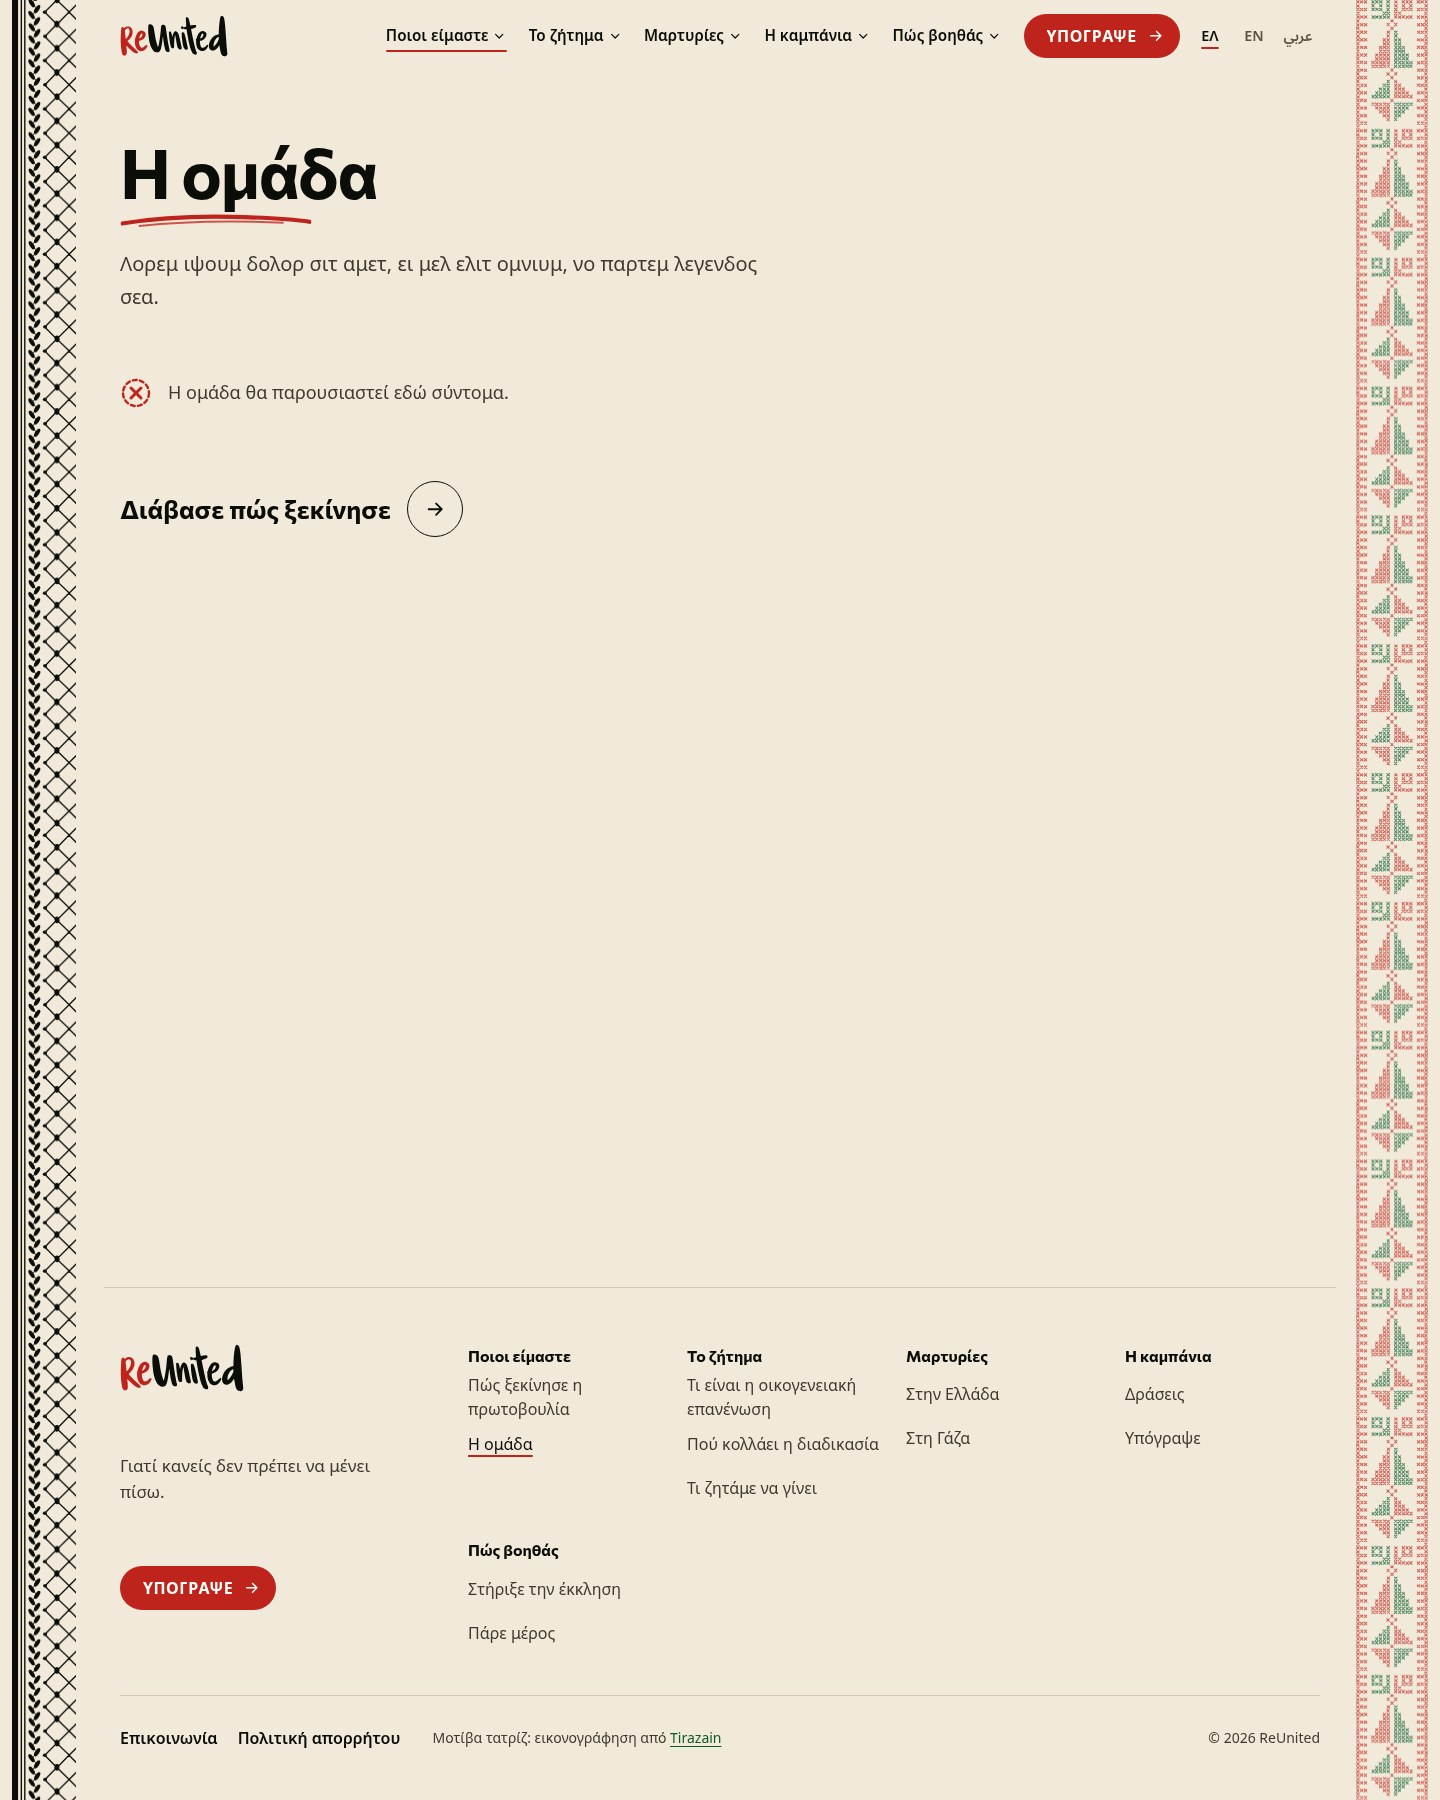
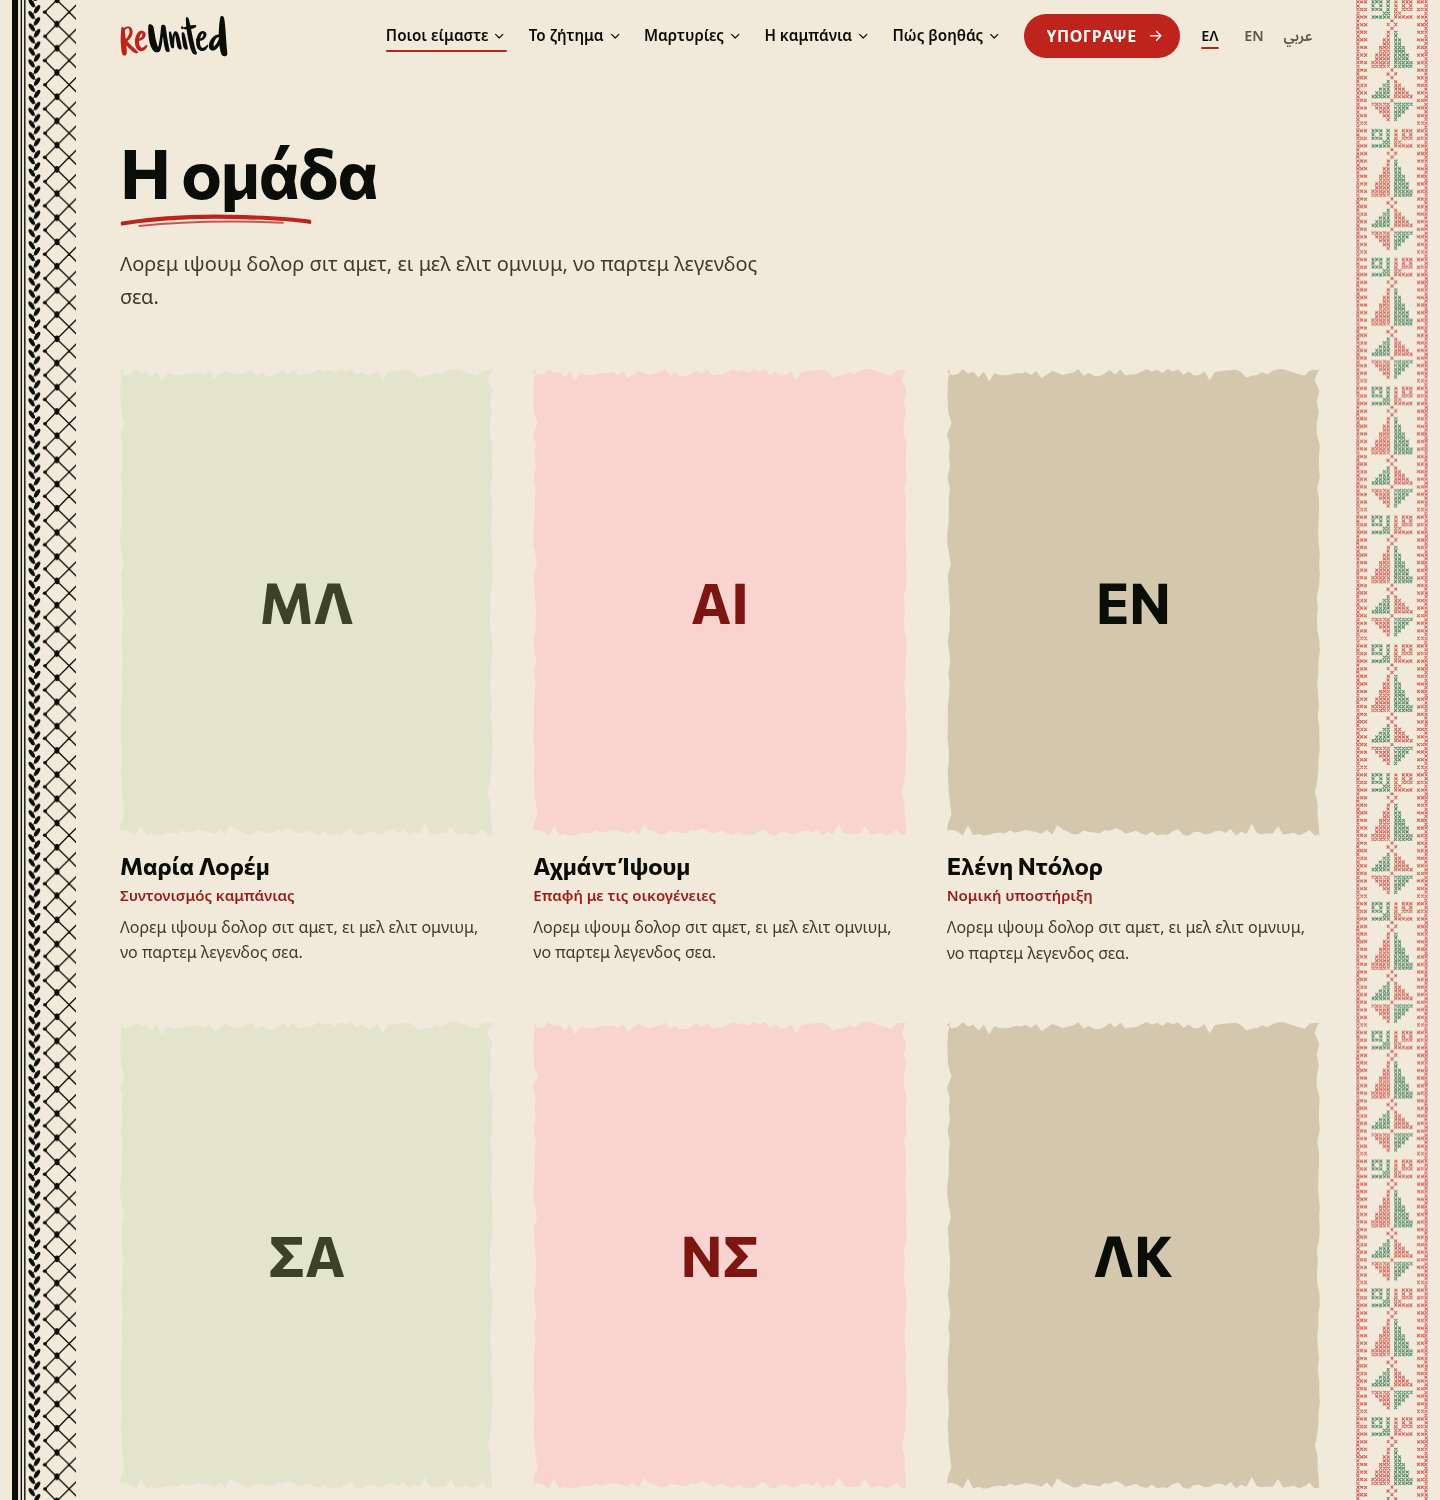
chore(web): fill who-we-are previews with a fellowship-themed story and mock team

diff --git a/apps/web/src/cms/team.mock.ts b/apps/web/src/cms/team.mock.ts
@@ -1,45 +1,99 @@
 import type { Locale } from '../paraglide/runtime'
 import type { TeamMember } from './team'
 
-const people: Record<Locale, [string, string][]> = {
+const people: Record<Locale, [string, string, string][]> = {
   el: [
-    ['Μαρία Λορέμ', 'Συντονισμός καμπάνιας'],
-    ['Αχμάντ Ίψουμ', 'Επαφή με τις οικογένειες'],
-    ['Ελένη Ντόλορ', 'Νομική υποστήριξη'],
-    ['Σαμίρ Άμετ', 'Διερμηνεία αραβικών'],
-    ['Νίκος Σιτ', 'Οργάνωση δράσεων'],
-    ['Λέιλα Κονσέκ', 'Γραφιστικά και επικοινωνία'],
+    [
+      'Φρόντο Μπάγκινς',
+      'Κομιστής του Δαχτυλιδιού',
+      'Δεν ήξερε τον δρόμο, αλλά σηκώθηκε πρώτος. Συντονίζει την αποστολή από το Σάιρ ως το Όρος του Χαμού.',
+    ],
+    [
+      'Σάμγουαϊζ Γκάμτζι',
+      'Κηπουρός και στήριγμα',
+      'Κουβαλάει τα σκεύη, τις πατάτες και, όταν χρειαστεί, τον Φρόντο. Χωρίς αυτόν κανείς δεν θα έφτανε.',
+    ],
+    [
+      'Γκάνταλφ ο Γκρίζος',
+      'Σύμβουλος, πάντα στην ώρα του',
+      'Δεν αργεί ποτέ ούτε έρχεται νωρίς. Φτάνει ακριβώς όταν το σκοπεύει.',
+    ],
+    [
+      'Άραγκορν',
+      'Ιχνηλάτης του Βορρά',
+      'Ξέρει κάθε μονοπάτι της Μέσης Γης και μιλά τις γλώσσες των λαών της. Υπεύθυνος για τις διαδρομές.',
+    ],
+    [
+      'Λέγκολας',
+      'Ξωτικό του Μυρκγουντ',
+      'Βλέπει μακρύτερα από όλους και φροντίζει να μη χάνεται κανείς από τα μάτια μας.',
+    ],
+    [
+      'Γκίμλι',
+      'Νάνος της Ερεμπόρ',
+      'Μετρά τα πάντα και διαφωνεί με τον Λέγκολας σε όλα, εκτός από το ότι κανείς δεν μένει πίσω.',
+    ],
   ],
   en: [
-    ['Maria Lorem', 'Campaign coordination'],
-    ['Ahmad Ipsum', 'Contact with the families'],
-    ['Eleni Dolor', 'Legal support'],
-    ['Samir Amet', 'Arabic interpreting'],
-    ['Nikos Sit', 'Organising actions'],
-    ['Leila Consec', 'Design and communication'],
+    [
+      'Frodo Baggins',
+      'Ring-bearer',
+      'He did not know the way, but he stood up first. Coordinates the quest from the Shire to Mount Doom.',
+    ],
+    [
+      'Samwise Gamgee',
+      'Gardener and mainstay',
+      'Carries the pans, the potatoes and, when needed, Frodo. Without him no one would make it.',
+    ],
+    [
+      'Gandalf the Grey',
+      'Adviser, never late',
+      'He is never late, nor is he early. He arrives precisely when he means to.',
+    ],
+    [
+      'Aragorn',
+      'Ranger of the North',
+      'Knows every path in Middle-earth and speaks the tongues of its peoples. In charge of routes.',
+    ],
+    [
+      'Legolas',
+      'Elf of Mirkwood',
+      'Sees further than anyone and makes sure no one slips out of sight.',
+    ],
+    [
+      'Gimli',
+      'Dwarf of Erebor',
+      'Counts everything and disagrees with Legolas on all of it, except that no one is left behind.',
+    ],
   ],
   ar: [
-    ['ماريا لوريم', 'تنسيق الحملة'],
-    ['أحمد إيبسوم', 'التواصل مع العائلات'],
-    ['إليني دولور', 'الدعم القانوني'],
-    ['سمير أميت', 'الترجمة الفورية للعربية'],
-    ['نيكوس سيت', 'تنظيم الأنشطة'],
-    ['ليلى كونسيك', 'التصميم والتواصل'],
+    [
+      'فرودو باغينز',
+      'حامل الخاتم',
+      'لم يكن يعرف الطريق لكنه نهض أولاً. ينسّق المهمة من الشاير حتى جبل الهلاك.',
+    ],
+    [
+      'سام غامجي',
+      'البستاني والسند',
+      'يحمل القدور والبطاطا، وحين يلزم يحمل فرودو. لولاه لما وصل أحد.',
+    ],
+    [
+      'غاندالف الرمادي',
+      'المستشار الذي لا يتأخر',
+      'لا يتأخر أبدًا ولا يأتي باكرًا. يصل تمامًا حين ينوي ذلك.',
+    ],
+    ['أراغورن', 'جوّال الشمال', 'يعرف كل دروب الأرض الوسطى ويتكلم لغات شعوبها. مسؤول عن المسارات.'],
+    ['ليغولاس', 'جنّي ميركوود', 'يرى أبعد من الجميع ويحرص ألّا يغيب أحد عن الأنظار.'],
+    ['غيملي', 'قزم إريبور', 'يحصي كل شيء ويخالف ليغولاس في كل شيء، إلا في أن أحدًا لا يُترك خلفنا.'],
   ],
-}
-
-const bio: Record<Locale, string> = {
-  el: 'Λορεμ ιψουμ δολορ σιτ αμετ, ει μελ ελιτ ομνιυμ, νο παρτεμ λεγενδος σεα.',
-  en: 'Lorem ipsum dolor sit amet, consectetur adipiscing elit, sed do eiusmod tempor.',
-  ar: 'لوريم ايبسوم دولار سيت أميت، كونسيكتيتور أدايبا يسكينج أليايت.',
 }
 
 /** Fictional members shown while the CMS is not connected, so the design can be previewed. */
 export function mockTeamMembers(locale: Locale): TeamMember[] {
-  return people[locale].map(([name, role], index) => ({
+  return people[locale].map(([name, role, bio], index) => ({
     id: `mock-${index}`,
     name,
     role,
-    bio: bio[locale],
+    bio,
   }))
 }
